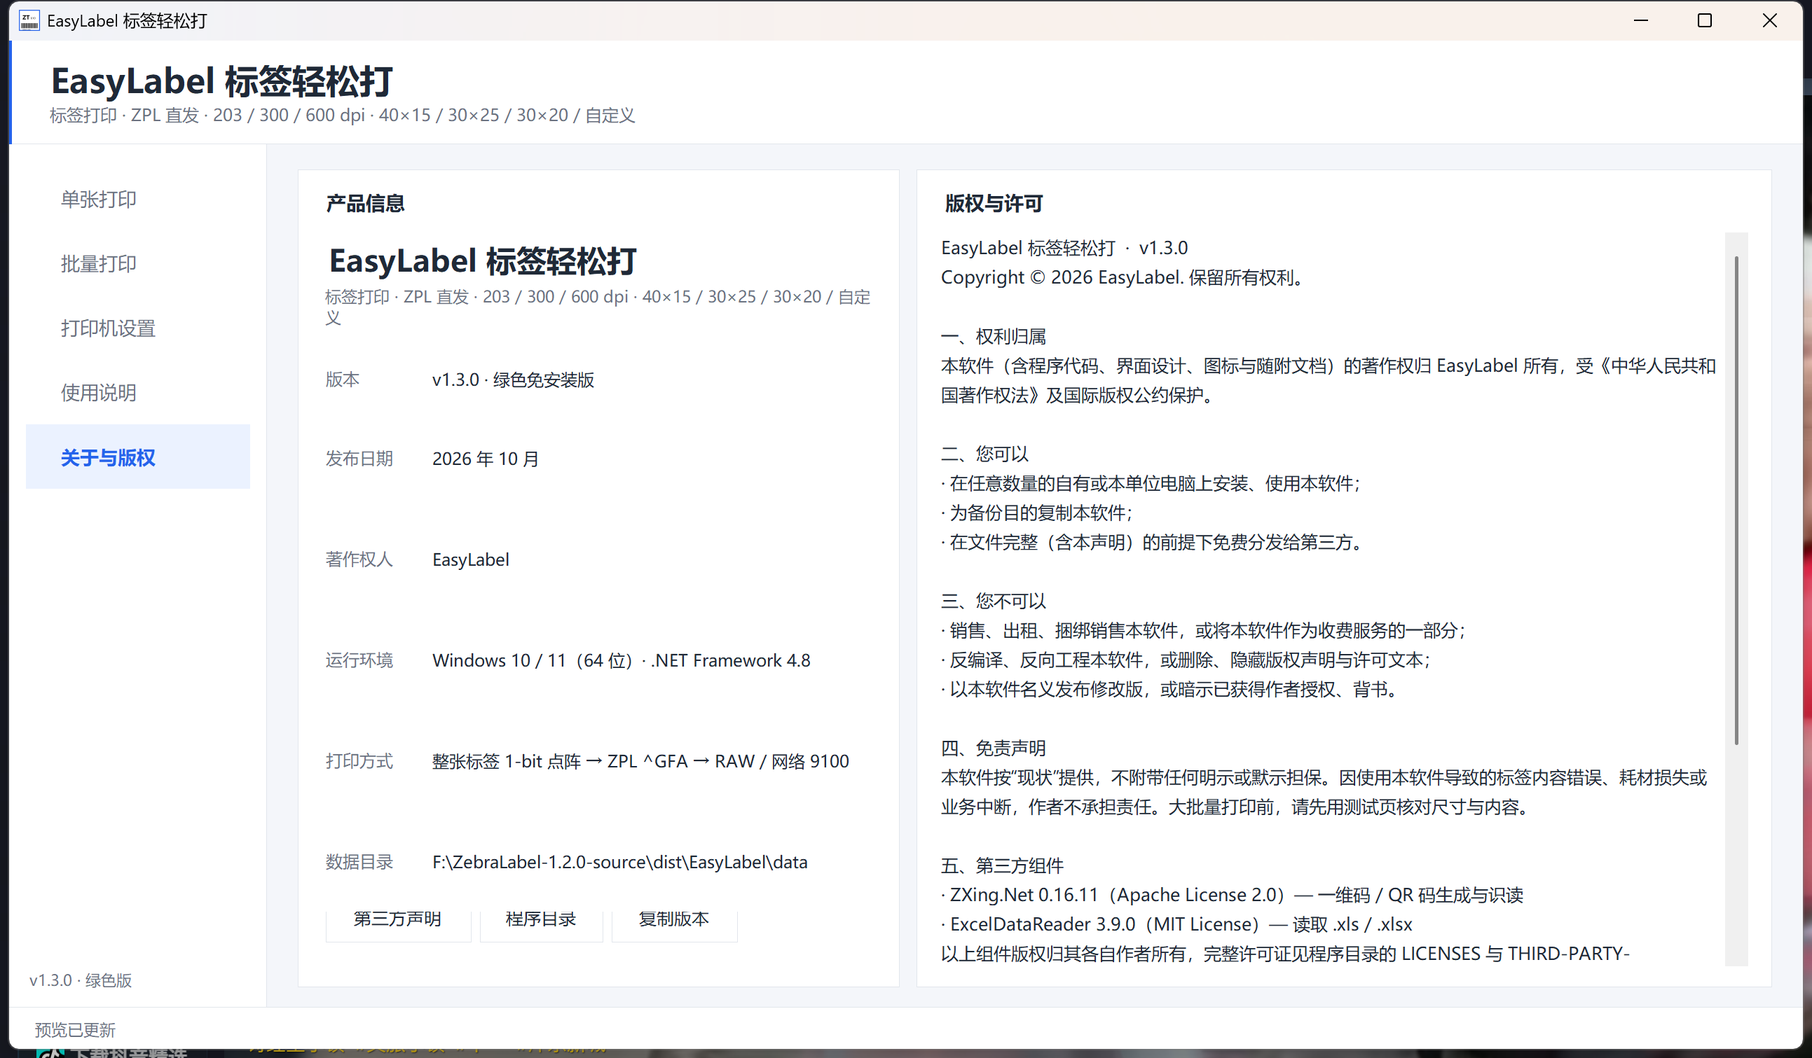
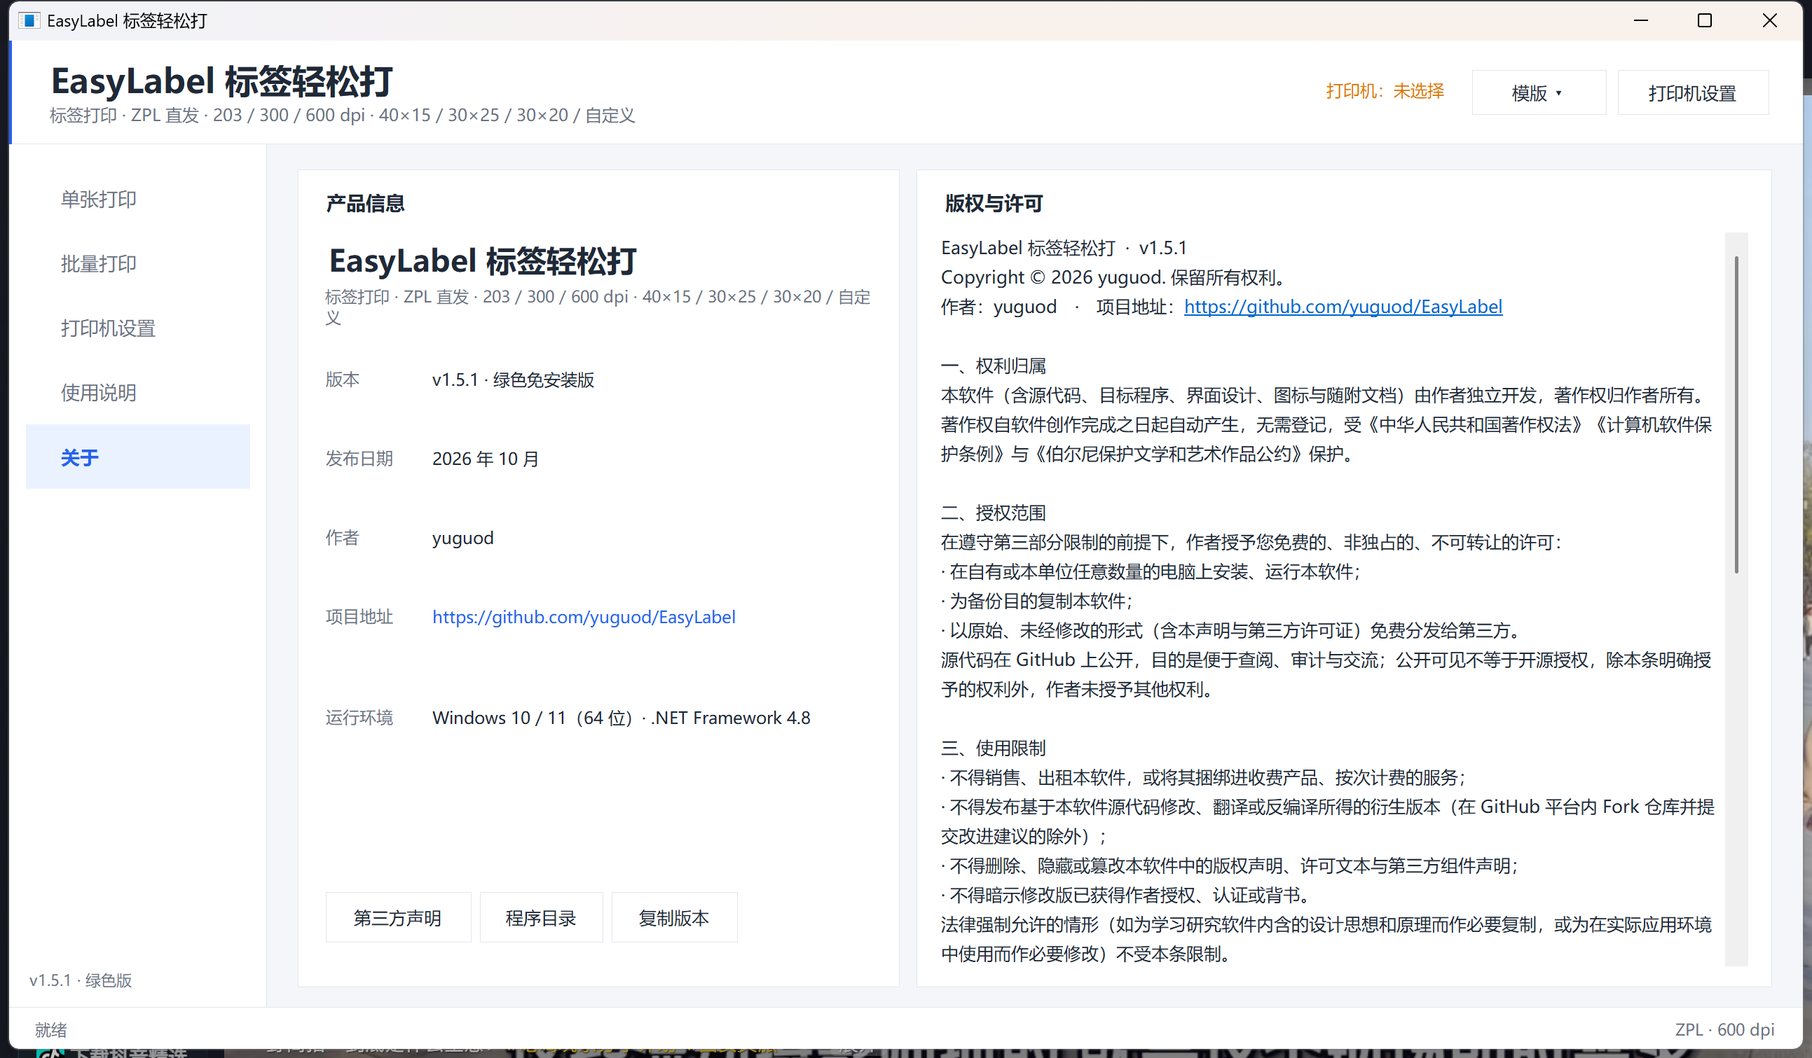
关于页整改与许可条款重写（v1.5.1）
界面
- 导航「关于与版权」→「关于」，设置页按钮同步简化
- 产品信息改为 5 行：版本 / 发布日期 / 作者 / 项目地址 / 运行环境
  · 著作权人 → 作者 yuguod
  · 新增可点击的项目地址（LinkLabel，条款正文里也会自动识别为链接）
  · 移除「打印方式」「数据目录」两行

许可与合规
- Copyright 行改为 yuguod；AppInfo 增加 Author / ProjectUrl
- 条款重写为八节：权利归属、授权范围、使用限制、免责声明、
  第三方组件、商标声明、数据与隐私、许可变更
  · 明确著作权自动产生及法律依据（著作权法 / 计算机软件保护条例 / 伯尔尼公约）
  · 补充法定例外（学习研究、必要修改），避免与法律强制性规定冲突
  · 免责条款限定「法律允许的最大范围内」，并保留不可排除的责任
  · 明确「源码公开可见 ≠ 开源授权」，Fork / PR 除外
  · 第三方组件写明版本、许可证、未修改分发、Apache-2.0 第 4 条履行
  · 隐私部分改为「无联网上报；9100 直连仅发往指定打印机 IP」
- 新增仓库根目录 LICENSE（与程序内条款同文）
- THIRD-PARTY-NOTICES：补版权归属、许可证履行说明、内嵌分发方式

构建
- build.ps1 改为原地覆盖输出（不再递归删除 dist\EasyLabel，适配受限环境）
- 打包改为显式文件清单，避免带入运行期 data\ 与构建残留 {guid}_EasyLabel.exe
- build.ps1 转存为 UTF-8 with BOM（v5.1 宿主按 ANSI 解码会误判中文注释）
- 版本 1.5.0 → 1.5.1

diff --git a/src/UI/MainForm.About.cs b/src/UI/MainForm.About.cs
@@ -9,7 +9,7 @@ namespace EasyLabel.UI
 {
     public sealed partial class MainForm
     {
-        private const int InfoRowCount = 6;
+        private const int InfoRowCount = 5;
 
         private Panel BuildCopyrightPage()
         {
@@ -74,10 +74,9 @@ namespace EasyLabel.UI
             int row = 0;
             AddInfoRow(table, row++, "版本", "v" + AppInfo.Version + " · 绿色免安装版");
             AddInfoRow(table, row++, "发布日期", AppInfo.ReleaseDate);
-            AddInfoRow(table, row++, "著作权人", AppInfo.CopyrightHolder);
+            AddInfoRow(table, row++, "作者", AppInfo.Author);
+            AddLinkRow(table, row++, "项目地址", AppInfo.ProjectUrl, AppInfo.ProjectUrl);
             AddInfoRow(table, row++, "运行环境", "Windows 10 / 11（64 位）· .NET Framework 4.8");
-            AddInfoRow(table, row++, "打印方式", "整张标签 1-bit 点阵 → ZPL ^GFA → RAW / 网络 9100");
-            AddInfoRow(table, row++, "数据目录", AppSettings.DataDirectory);
 
             var buttons = new FlowLayoutPanel
             {
@@ -127,10 +126,11 @@ namespace EasyLabel.UI
                 BackColor = Color.White,
                 ForeColor = Theme.Text,
                 Font = Theme.Ui(9.5f),
-                DetectUrls = false,
+                DetectUrls = true,
                 ScrollBars = RichTextBoxScrollBars.Vertical,
                 Text = CopyrightText()
             };
+            text.LinkClicked += (s, e) => OpenUrl(e.LinkText);
             card.Content.Controls.Add(text);
             return card;
         }
@@ -153,33 +153,83 @@ namespace EasyLabel.UI
             table.Controls.Add(v, 1, row);
         }
 
+        private void AddLinkRow(TableLayoutPanel table, int row, string key, string text, string url)
+        {
+            var k = Theme.Label(key, 9f, Theme.Muted);
+            k.Anchor = AnchorStyles.Left;
+            k.Margin = new Padding(0, 5, 8, 5);
+
+            var link = new LinkLabel
+            {
+                Text = text,
+                AutoSize = false,
+                Dock = DockStyle.Fill,
+                Height = 22,
+                TextAlign = ContentAlignment.MiddleLeft,
+                AutoEllipsis = true,
+                LinkBehavior = LinkBehavior.HoverUnderline,
+                Font = Theme.Ui(9f),
+                LinkColor = Theme.Accent,
+                ActiveLinkColor = Theme.AccentDark,
+                VisitedLinkColor = Theme.Accent,
+                BackColor = Theme.Card,
+                Margin = new Padding(0, 3, 0, 3)
+            };
+            link.LinkClicked += (s, e) => OpenUrl(url);
+
+            table.Controls.Add(k, 0, row);
+            table.Controls.Add(link, 1, row);
+        }
+
+        private void OpenUrl(string url)
+        {
+            try
+            {
+                Process.Start(new ProcessStartInfo(url) { UseShellExecute = true });
+            }
+            catch (Exception ex)
+            {
+                MessageBox.Show(this, "无法打开链接：\r\n" + url + "\r\n\r\n" + ex.Message, "打开链接",
+                    MessageBoxButtons.OK, MessageBoxIcon.Warning);
+            }
+        }
+
         private static string CopyrightText()
         {
             return
 "EasyLabel 标签轻松打  ·  v" + AppInfo.Version + "\r\n" +
-AppInfo.Copyright + "\r\n\r\n" +
+AppInfo.Copyright + "\r\n" +
+"作者：" + AppInfo.Author + "　·　项目地址：" + AppInfo.ProjectUrl + "\r\n\r\n" +
 "一、权利归属\r\n" +
-"本软件（含程序代码、界面设计、图标与随附文档）的著作权归 " + AppInfo.CopyrightHolder +
-" 所有，受《中华人民共和国著作权法》及国际版权公约保护。\r\n\r\n" +
-"二、您可以\r\n" +
-"· 在任意数量的自有或本单位电脑上安装、使用本软件；\r\n" +
+"本软件（含源代码、目标程序、界面设计、图标与随附文档）由作者独立开发，著作权归作者所有。著作权自软件创作完成之日起自动产生，无需登记，受《中华人民共和国著作权法》《计算机软件保护条例》与《伯尔尼保护文学和艺术作品公约》保护。\r\n\r\n" +
+"二、授权范围\r\n" +
+"在遵守第三部分限制的前提下，作者授予您免费的、非独占的、不可转让的许可：\r\n" +
+"· 在自有或本单位任意数量的电脑上安装、运行本软件；\r\n" +
 "· 为备份目的复制本软件；\r\n" +
-"· 在文件完整（含本声明）的前提下免费分发给第三方。\r\n\r\n" +
-"三、您不可以\r\n" +
-"· 销售、出租、捆绑销售本软件，或将本软件作为收费服务的一部分；\r\n" +
-"· 反编译、反向工程本软件，或删除、隐藏版权声明与许可文本；\r\n" +
-"· 以本软件名义发布修改版，或暗示已获得作者授权、背书。\r\n\r\n" +
+"· 以原始、未经修改的形式（含本声明与第三方许可证）免费分发给第三方。\r\n" +
+"源代码在 GitHub 上公开，目的是便于查阅、审计与交流；公开可见不等于开源授权，除本条明确授予的权利外，作者未授予其他权利。\r\n\r\n" +
+"三、使用限制\r\n" +
+"· 不得销售、出租本软件，或将其捆绑进收费产品、按次计费的服务；\r\n" +
+"· 不得发布基于本软件源代码修改、翻译或反编译所得的衍生版本（在 GitHub 平台内 Fork 仓库并提交改进建议的除外）；\r\n" +
+"· 不得删除、隐藏或篡改本软件中的版权声明、许可文本与第三方组件声明；\r\n" +
+"· 不得暗示修改版已获得作者授权、认证或背书。\r\n" +
+"法律强制允许的情形（如为学习研究软件内含的设计思想和原理而作必要复制，或为在实际应用环境中使用而作必要修改）不受本条限制。\r\n\r\n" +
 "四、免责声明\r\n" +
-"本软件按“现状”提供，不附带任何明示或默示担保。因使用本软件导致的标签内容错误、耗材损失或业务中断，作者不承担责任。大批量打印前，请先用测试页核对尺寸与内容。\r\n\r\n" +
+"本软件按“现状”提供。在法律允许的最大范围内，作者不提供任何明示或默示的担保，包括适销性、特定用途适用性与不侵权的担保。因使用或无法使用本软件造成的标签内容错误、打印废品、耗材损失、设备故障或业务中断，作者不承担赔偿责任。\r\n" +
+"打印结果受打印机分辨率、驱动、介质与校准状态影响，请在批量打印前用测试页核对尺寸与内容。\r\n" +
+"本条不排除依法不得排除的责任，包括因故意或重大过失造成财产损失的责任，以及造成人身损害的责任。\r\n\r\n" +
 "五、第三方组件\r\n" +
-"· ZXing.Net 0.16.11（Apache License 2.0）— 一维码 / QR 码生成与识读\r\n" +
-"· ExcelDataReader 3.9.0（MIT License）— 读取 .xls / .xlsx\r\n" +
-"以上组件版权归其各自作者所有，完整许可证见程序目录的 LICENSES 与 THIRD-PARTY-NOTICES.txt。\r\n\r\n" +
+"· ZXing.Net 0.16.11（Apache License 2.0）— 一维码 / QR 码的生成与识读，版权归其作者所有\r\n" +
+"· ExcelDataReader 3.9.0（MIT License）— 读取 .xls / .xlsx，版权归其贡献者所有\r\n" +
+"两者以未经修改的二进制形式随本软件分发。许可证副本随程序提供于 LICENSES 目录，归属声明见 THIRD-PARTY-NOTICES.txt，满足 Apache License 2.0 第 4 条与 MIT 许可证的随附要求。\r\n\r\n" +
 "六、商标声明\r\n" +
-"本软件为独立开发的标签打印工具，与任何打印机厂商均无隶属、代理或背书关系；文中提及的打印机型号、厂商名称与商标归其各自所有者所有，仅用于说明兼容性。\r\n\r\n" +
+"本软件为独立开发，与任何打印机厂商均无隶属、代理、赞助或背书关系。文中提及的产品名称、型号、指令集名称（如 ZPL）与商标，均为其各自权利人的商标或注册商标，仅以描述性方式用于说明兼容性。\r\n\r\n" +
 "七、数据与隐私\r\n" +
-"标签内容只在本机处理，不上传网络；日志只记录时间、打印机、数量与错误信息，不记录标签正文。\r\n" +
-"设置与日志目录：" + AppSettings.DataDirectory;
+"本软件不含联网上报、遥测或统计功能，标签内容与导入的表格数据只在本机处理；使用网络 9100 直连打印时，ZPL 数据仅发送至您指定的打印机地址。\r\n" +
+"运行日志只记录时间、打印机、份数与错误摘要，不记录标签正文。\r\n" +
+"当前数据目录：" + AppSettings.DataDirectory + "\r\n\r\n" +
+"八、许可变更\r\n" +
+"作者可能随新版本调整本许可条款，调整仅对该版本之后发布的版本生效；您已取得的版本仍适用其随附的许可。";
         }
 
         private void CopyVersionInfo()

diff --git a/src/UI/MainForm.Help.cs b/src/UI/MainForm.Help.cs
@@ -135,17 +135,19 @@ namespace EasyLabel.UI
    · 本程序把中文栅格化后发送，正常不会依赖打印机字体；如仍异常，请确认使用的是本程序生成的 ZPL，而不是驱动重新排版。
 
 九、数据与隐私
-· 所有标签内容只在本机处理，不上传网络。
+· 不含联网上报、遥测或统计功能；标签内容与导入的表格数据只在本机处理。
+· 使用“网络 9100”直连打印时，ZPL 数据仅发送到您指定的打印机地址。
 · 日志只记录时间、打印机、标签数量和错误信息，不记录标签正文。
 · 设置保存在：" + AppSettings.SettingsPath + @"
 
 十、开源组件
-· ZXing.Net（Apache-2.0）：一维码/QR 生成与识读。
-· ExcelDataReader（MIT）：读取 .xls/.xlsx。
-详细许可见程序目录下的 THIRD-PARTY-NOTICES.txt，或“关于与版权”页。
+· ZXing.Net 0.16.11（Apache-2.0）：一维码/QR 生成与识读。
+· ExcelDataReader 3.9.0（MIT）：读取 .xls/.xlsx。
+详细许可见程序目录下的 THIRD-PARTY-NOTICES.txt，或程序内“关于”页。
 
 十一、版权
 " + AppInfo.Copyright + @"
+作者：yuguod    项目地址：https://github.com/yuguod/EasyLabel
 未经授权不得以本程序名义发布修改版本；第三方组件版权归其各自作者所有。";
         }
     }

diff --git a/src/Core/AppInfo.cs b/src/Core/AppInfo.cs
@@ -12,13 +12,16 @@ namespace EasyLabel.Core
         public const string ProductName = "EasyLabel 标签轻松打";
         public const string ShortName = "EasyLabel";
         public const string Tagline = "标签打印 · ZPL 直发 · 203 / 300 / 600 dpi · 40×15 / 30×25 / 30×20 / 自定义";
-        public const string Copyright = "Copyright © 2026 EasyLabel. 保留所有权利。";
-        public const string CopyrightHolder = "EasyLabel";
+
+        /// <summary>著作权人。署名用账号名，若要强化权利主张可改为真实姓名。</summary>
+        public const string Author = "yuguod";
+        public const string ProjectUrl = "https://github.com/yuguod/EasyLabel";
+        public const string Copyright = "Copyright © 2026 " + Author + ". 保留所有权利。";
         public const string ReleaseDate = "2026 年 10 月";
 
         private static string _version;
 
-        /// <summary>形如 1.5.0；取入口程序集版本，取不到时退回 1.0.0。</summary>
+        /// <summary>形如 1.5.1；取入口程序集版本，取不到时退回 1.0.0。</summary>
         public static string Version
         {
             get

diff --git a/src/UI/MainForm.cs b/src/UI/MainForm.cs
@@ -154,7 +154,7 @@ namespace EasyLabel.UI
 
             var navHost = new Panel { Dock = DockStyle.Top, Height = 296, BackColor = Color.White };
             _navButtons = new Button[5];
-            string[] names = { "单张打印", "批量打印", "打印机设置", "使用说明", "关于与版权" };
+            string[] names = { "单张打印", "批量打印", "打印机设置", "使用说明", "关于" };
             for (int i = names.Length - 1; i >= 0; i--)
             {
                 int page = i;

diff --git a/src/UI/MainForm.Settings.cs b/src/UI/MainForm.Settings.cs
@@ -306,7 +306,7 @@ namespace EasyLabel.UI
                 string dir = Path.Combine(AppDomain.CurrentDomain.BaseDirectory, "samples");
                 OpenFolder(Directory.Exists(dir) ? dir : AppDomain.CurrentDomain.BaseDirectory);
             };
-            var about = UiKit.SecondaryButton("关于 / 版权");
+            var about = UiKit.SecondaryButton("关于");
             about.Width = 128;
             about.Click += (s, e) => ShowPage(4);
 

diff --git a/src/AssemblyInfo.cs b/src/AssemblyInfo.cs
@@ -11,5 +11,5 @@ using System.Runtime.InteropServices;
 [assembly: AssemblyCulture("")]
 [assembly: ComVisible(false)]
 [assembly: Guid("7b1b9f0e-6b7a-4f2a-9a3c-6d2d4a0c6e21")]
-[assembly: AssemblyVersion("1.5.0.0")]
-[assembly: AssemblyFileVersion("1.5.0.0")]
+[assembly: AssemblyVersion("1.5.1.0")]
+[assembly: AssemblyFileVersion("1.5.1.0")]

diff --git a/README.md b/README.md
@@ -1,10 +1,10 @@
-# EasyLabel 标签轻松打 v1.5.0
+# EasyLabel 标签轻松打 v1.5.1
 
 Windows 条码标签打印工具。支持 **40×15 mm**、**30×25 mm**、**30×20 mm** 和自定义尺寸，单张文本打印、Excel/CSV 批量打印，以及 Code 128 / Code 39 / EAN-13 一维码和 QR 二维码。
 
 程序采用 **ZPL 直发**：把整张标签渲染成 1-bit 点阵，通过 `^GFA` 发送给打印机，不经过 Windows 驱动的页面缩放和重新排版。中文、条码、二维码的预览与实际打印使用同一张位图。
 
-> **直接使用**：不想自己编译的话，到 [Releases](https://github.com/yuguod/EasyLabel/releases) 下载 `EasyLabel-1.5.0-win64.zip`，解压后双击 `EasyLabel.exe` 即可。仓库只存源码，构建产物和版本包不进 Git（见 [从源码构建](#12-从源码构建)）。
+> **直接使用**：不想自己编译的话，到 [Releases](https://github.com/yuguod/EasyLabel/releases) 下载最新版的 `EasyLabel-*-win64.zip`，解压后双击 `EasyLabel.exe` 即可。仓库只存源码，构建产物和版本包不进 Git（见 [从源码构建](#12-从源码构建)）。
 
 ![单张打印](docs/screenshot-single.png)
 
@@ -287,10 +287,11 @@ DPI 必须与打印机实际分辨率一致，否则标签会整体偏大/偏小
 
 ## 11. 数据与隐私
 
-- 所有标签内容只在本机处理，不上传网络。
+- 不含联网上报、遥测或统计功能；标签内容与导入的表格数据只在本机处理。
+- 使用“网络 9100”直连打印时，ZPL 数据仅发送到您指定的打印机地址。
 - 日志只记录启动、打印机、标签数量、错误信息，不记录标签正文。
 - 设置与日志位置见“便携模式”一节。
-- “关于与版权”页中可查看版权声明、许可条款与开源组件说明。
+- “关于”页中可查看版权声明、许可条款与开源组件说明。
 
 ---
 
@@ -312,7 +313,7 @@ powershell -NoProfile -ExecutionPolicy Bypass -File .\build.ps1 -Tests
 输出：
 
 - `dist/EasyLabel/EasyLabel.exe`（单文件，依赖已内嵌）
-- `dist/EasyLabel-1.5.0-win64.zip`
+- `dist/EasyLabel-1.5.1-win64.zip`
 - 构建脚本会把应用包同步归档到 `releases/`；源码包也放入 `releases/`，以后每个版本都保留，不覆盖旧包。
 
 测试：
@@ -327,27 +328,35 @@ powershell -NoProfile -ExecutionPolicy Bypass -File .\build.ps1 -Tests
 
 ## 13. 第三方组件与许可
 
-- **ZXing.Net** — Apache License 2.0，一维码/QR 生成与识读。
-- **ExcelDataReader** — MIT License，读取 `.xls` / `.xlsx`。
+- **ZXing.Net 0.16.11** — Apache License 2.0，一维码/QR 生成与识读，版权归 ZXing.Net authors 所有。
+- **ExcelDataReader 3.9.0** — MIT License，读取 `.xls` / `.xlsx`，版权归 ExcelDataReader contributors 所有。
 
-完整文本见 `LICENSES/` 和 `THIRD-PARTY-NOTICES.txt`，也可在程序内“关于与版权”页查看。
+两个组件以未经修改的二进制形式随程序分发，完整许可文本见 `LICENSES/`，归属与履行说明见 `THIRD-PARTY-NOTICES.txt`，也可在程序内“关于”页查看。
 
 ---
 
 ## 14. 版权
 
-Copyright © 2026 EasyLabel. 保留所有权利。
+Copyright © 2026 yuguod. 保留所有权利。
 
-本软件（含程序代码、界面设计、图标与随附文档）的著作权归 EasyLabel 所有。允许在自有或本单位电脑上安装使用、为备份目的复制、在文件完整的前提下免费分发；不得销售、出租或捆绑销售，不得反编译或删除版权声明，不得以本软件名义发布修改版。本软件按“现状”提供，不附带任何明示或默示担保。
+作者：yuguod　·　项目地址：<https://github.com/yuguod/EasyLabel>
 
-完整条款见程序内“关于与版权”页。
+本软件（含源代码、目标程序、界面设计、图标与随附文档）由作者独立开发，著作权归作者所有，受《中华人民共和国著作权法》《计算机软件保护条例》与《伯尔尼保护文学和艺术作品公约》保护。
 
-![关于与版权](docs/screenshot-about.png)
+- **可以**：在自有或本单位任意数量的电脑上安装运行；为备份目的复制；以原始未修改的形式（含本声明与第三方许可证）免费分发。
+- **不可以**：销售、出租或捆绑进收费产品；发布基于源码修改的衍生版本；删除版权声明与许可文本；暗示获得作者授权或背书。
+
+源代码在 GitHub 上公开，仅为便于查阅、审计与交流——**公开可见不等于开源授权**，除上述许可外未授予其他权利。本软件按“现状”提供，在法律允许的最大范围内不提供任何担保；依法不得排除的责任（如故意或重大过失造成财产损失、人身损害）不受免责条款限制。
+
+完整条款见仓库根目录 [`LICENSE`](LICENSE) 与程序内“关于”页。
+
+![关于](docs/screenshot-about.png)
 
 ---
 
 ## 15. 版本
 
+**v1.5.1** — 版权页改为“关于”：著作权人改为作者 `yuguod`，新增可点击的项目地址，移除“打印方式/数据目录”两行；许可条款重写（明确著作权自动产生与法律依据、法定例外、不可排除的责任、第三方组件的 Apache-2.0 第 4 条履行说明），仓库补 `LICENSE` 全文。  
 **v1.5.0** — 模版支持 **ZPL 格式文件**：新增“将当前页面保存为 ZPL 模版…”，生成的 `.zpl` 既能直接发给打印机，也在 `^FX` 注释里带上版式信息，可再打开继续编辑；模版库同时列出 `.elbl` 与 `.zpl`（新增“类型”列），外部 `.zpl` 显示指令内容与点数尺寸并支持一键直发、导入、导出、改名。  
 **v1.4.0** — 新增 **模版功能**：页头“模版”菜单可把当前规格、版式、字体、边距、自定义布局和示例内容保存为模版（`.elbl`），下次一键打开；模版库支持预览、重命名、删除、导入/导出文件，批量页打开模版只套版式不动数据。同时修复 200% 缩放下页头“模版/打印机设置”和状态栏右侧文字被挤出窗口的问题。  
 **v1.3.0** — 更名 **EasyLabel 标签轻松打**：程序名、窗口标题、打印作业名、设置目录统一改为 EasyLabel（旧设置自动迁移）；界面文案去掉打印机品牌与型号；新增“关于与版权”页（产品信息、版权声明、使用许可、第三方组件、商标与免责）。  
